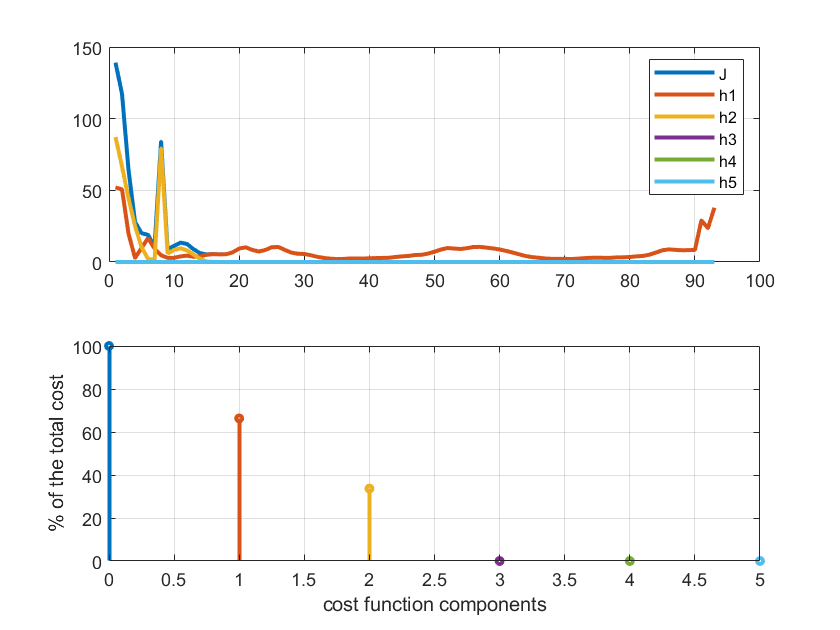
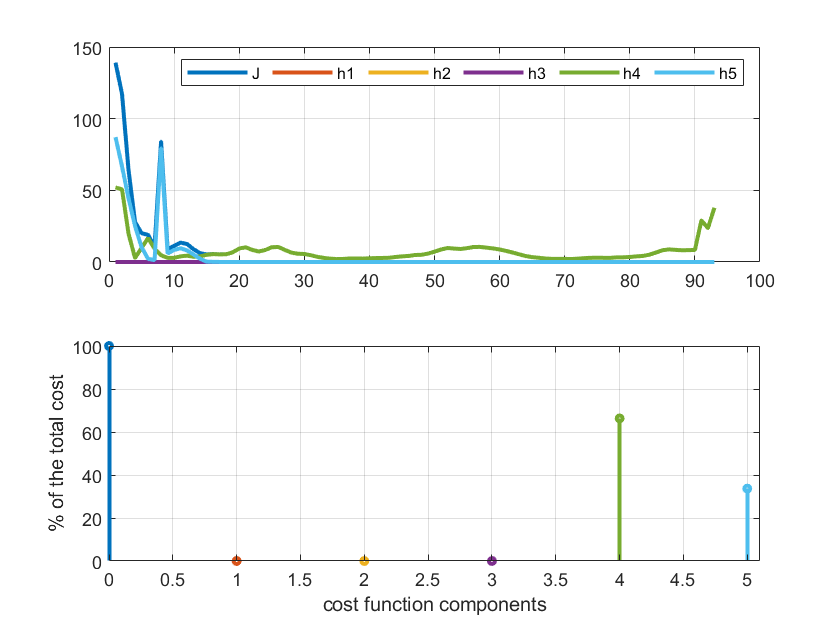
chapter7 corretto

diff --git a/chapter7.tex b/chapter7.tex
@@ -104,7 +104,7 @@ In addition to the state and the control actions boundary constraints, others ar
 \label{self_collision}
 \end{figure}
 \\
-We have described the results of simulations in two different tasks, having good performances controlling the robot in both situations. The controller has been tested and appears to behaves stabilizing the system even in passing from one cost function to the other one.
+We have described the results of simulations in two different tasks, having good performances controlling the robot in both situations. The controller has been tested and appears to behave stabilizing the system even in passing from one cost function to the other one.
 \section{Physical experiments results}
 \begin{figure}[h!]
 \centering
@@ -123,7 +123,7 @@ The only measures of the position of the mobile platform are given from the odom
 Thence, experiments have been performed with $N=10$ and choosing $T=0.4\ s$.
 
 \subsection{Trajectory tracking in handling operation}
-The presented controller has been tested to perform handling operations tracking a fixed position for the arm joints and a given trajectory for the mobile base. This approach allows the controller to solve faster the optimization problem. For these experiments the initial position of the system was random and not belonging to the desired trajectory. The cost function used to solve this problem combines the cost due to the base position error $h_1$ and the cost due to arm position error in joints space $h_2$. The control horizon ($N$) used for this experiments has been setted equal to $10$, chosen after simulation results. 
+The presented controller has been tested to perform handling operations tracking a fixed position for the arm joints and a given trajectory for the mobile base. This approach allows the controller to solve faster the optimization problem. For these experiments the initial position of the system was random and not belonging to the desired trajectory. The cost function used to solve this problem combines the cost due to the base position error $h_4$ and the cost due to arm position error in joint space $h_5$. The control horizon ($N$) used for this experiments, based on simulation results, has been set equal to $10$. 
 \begin{figure}[h!]
 \centering
 \includegraphics[scale=0.44]{traj_HANDL}
@@ -147,11 +147,11 @@ The presented controller has been tested to perform handling operations tracking
 \begin{figure}[h!]
 \centering
 \includegraphics[scale=0.44]{cost_function_HANDL}
-\caption{Upper: Cost function evaluations at each time step. Lower: percentage of each cost function term over the total}
+\caption{Upper: Cost function evaluations at each time step. Lower: overall percentage of each cost function term over the total, summing the contributions at each time step}
 \label{cost_function_HANDL}
 \end{figure}
 
-In Figure \ref{traj_handl} the desired and the real performed trajectory of the base are shown. It is possible to notice, looking at the error graph in Figure \ref{err_handl}, that the base track properly the given trajectory. In Figure \ref{joint_pos_handl} the arm joints values are given compared to the desired ones and it is possible to notice that, given that we are requiring a fixed configuration of the arm, the response of each joint is the response to a step input. Finally, in Figure \ref{cost_function_HANDL} the optimal cost function evaluations are given for each time step of the operation; it is possible to notice how the cost is mainly due to the error in the base positioning, while the cost related to the joints error is high just in the first instants of the operation and it is basically null in the remaining part of the experiment. \fix{qui ci sono da rifare i grafici perchè le h sono in ordine diverso rispetto a come le abbiamo definite nel capitolo 5. Purtroppo è perchè su initialization sono definite in ordine diverso, bisogna girare il grafico}
+In Figure \ref{traj_handl} the desired and the real performed trajectory of the base are shown. It is possible to notice, looking at the error graph in Figure \ref{err_handl}, that the base tracks properly the given trajectory. In Figure \ref{joint_pos_handl} the arm joint values are given compared to the desired ones and it is possible to notice that, given that we are requiring a fixed configuration of the arm, the response of each joint is the response to a step input. Finally, in Figure \ref{cost_function_HANDL} the optimal cost function evaluations are given for each time step of the operation; it is possible to notice how the cost is mainly due to the error in the base positioning, while the cost related to the joint errors is high just in the first instants of the operation and it is basically null in the remaining part of the experiment. \fix{qui ci sono da rifare i grafici perchè le h sono in ordine diverso rispetto a come le abbiamo definite nel capitolo 5. Purtroppo è perchè su initialization sono definite in ordine diverso, bisogna girare il grafico}
 
 \subsection{Trajectory tracking in grasping operation}
 
@@ -197,7 +197,7 @@ $\dot{\Theta}_{1,\dots,6}$	&  -0.2 $rad/s$					&  -0.2 $rad/s$ 		\\ \cline{1-3}
 \caption{Experiment Parameters}
 \label{tableparam1}
 \end{table}
-The first experiment's results, performed with a linear parameterization for the arm joints are obtained using the parameters shown in Table \ref{tableparam1}. As can be seen, the weights for the solution of the optimization problem have been chosen higher for the end effector pose error than for the base error. This choice lies in what is the aim of the performed task: since we are interested in grasp an object, the term we are more interested in is the one related to the pose of the end effector. Giving a desired position and orientation for the base only helps in defining the cost function properly. In fact, as mentioned in Chapter \ref{chapter4}, the high redundancy of Mobile Manupulators is usually managed adding secondary tasks to be performed.
+The first experimental results, performed with a linear parameterization for the arm joints are obtained using the parameters shown in Table \ref{tableparam1}. As can be seen, the weights for the solution of the optimization problem have been chosen higher for the end effector pose error than for the base error. This choice lies in what is the aim of the performed task: since we are interested in grasping an object, the term we are more interested in is the one related to the pose of the end effector. Giving a desired position and orientation for the base only helps in defining the cost function properly. In fact, as mentioned in Chapter \ref{chapter4}, the high redundancy of Mobile Manupulators is usually managed adding secondary tasks to be performed.
 In Figure \ref{traj_ee1} the performed trajectory of the end effector is shown in a 3D graph. 
 \begin{figure}[h!]
 \centering
@@ -242,7 +242,7 @@ The experiments has been performed successfully grasping different objects requi
 \caption{Base motion during grasping}
 \end{figure}
 
-In Figure \ref{err_num_base} errors on the Cartesian base position of the base are reported for grasping experiment while in Figure \ref{vel_real} acceleration of the base in its longitudinal and angular components and velcities of the joints are reported and compared to the given constraints.
+In Figure \ref{err_num_base} errors on the Cartesian base position are reported for a grasping experiment while in Figure \ref{vel_real} acceleration of the base in its longitudinal and angular components and velcities of the joints are reported and compared to the given constraints.
 
 \begin{figure}[h!]
 \centering
@@ -250,7 +250,7 @@ In Figure \ref{err_num_base} errors on the Cartesian base position of the base a
 \caption{Control actions constraints}
 \label{vel_real}
 \end{figure}
-To understand the performance in manipulability maximization we will show the value of $\sin\Theta_3$ which is a good index of how far the arm is from its singularities. In Figure \ref{man_real1} is possible to notice that this value is well bounded and tries to remain equal to $-1$ which corresponds to $-90\ deg$, i.e. a good condition for manipulability.
+To understand the performance in manipulability maximization we will show the value of $\sin\Theta_3$ which is a good index of how far the arm is from its singularities. In Figure \ref{man_real1} it is possible to notice that this value is well bounded and tries to remain equal to $-1$ which corresponds to $-90\ deg$, i.e. a good condition for manipulability.
 \begin{figure}[h!]
 \centering
 \includegraphics[scale=0.25]{man_real1.png}
